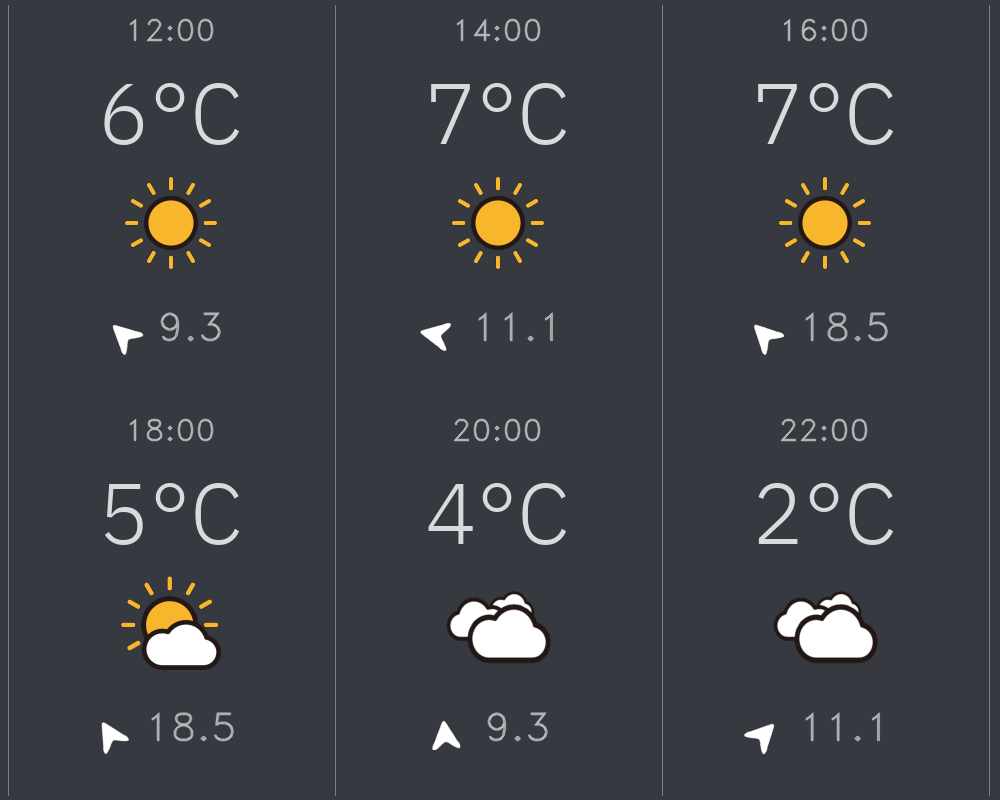
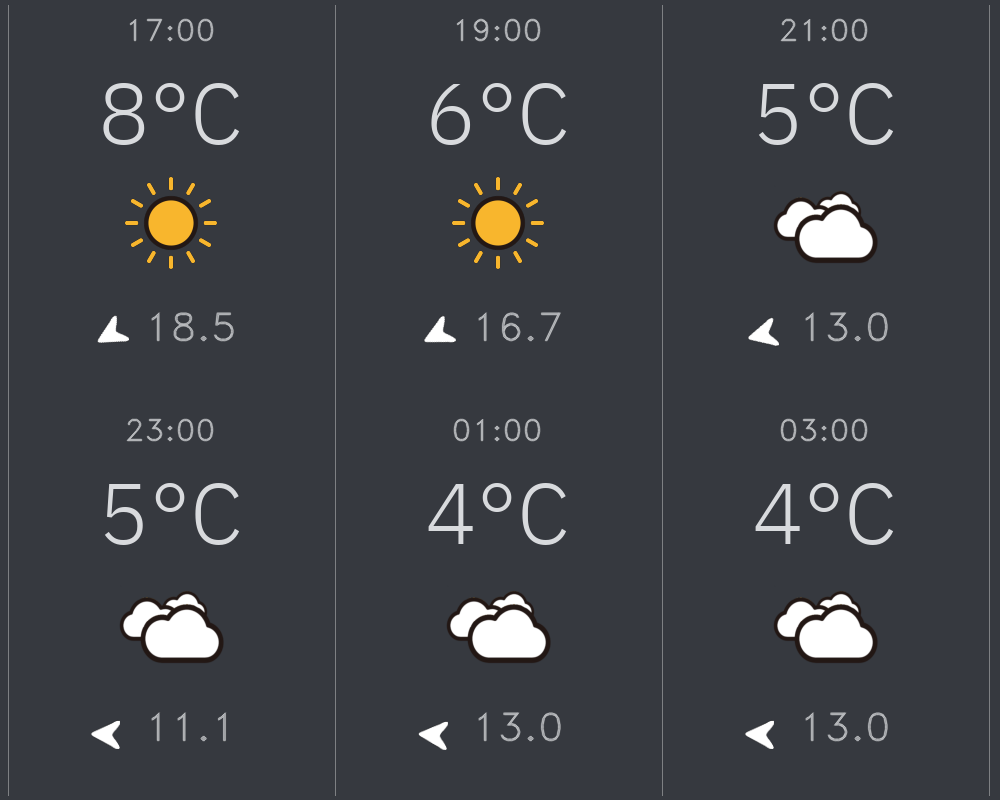
changed daily message

diff --git a/bot.py b/bot.py
@@ -197,6 +197,23 @@ async def terminy(ctx, *args):
         await ctx.send(bc.get_deadlines_message())
 
 
+# sends stats to the channels defined i the file data/config.json
+# to add a channel to the config run 'channel set' command on the channel
+async def broadcast_stats():
+    list = bc.get_channels()
+    for el in list:
+        channel_id = el["ChannelId"]
+        channel = client.get_channel(channel_id)
+
+        generate_forecast_image()
+        await channel.send(bc.get_daily_stats_message())
+
+
+        with open("assets/generated_images/image.png", 'rb') as f:
+            picture = discord.File(f)
+            await channel.send(file=picture)
+
+
 # sends the same message to the channels defined i the file data/config.json
 # to add a channel to the config run 'channel set' command on the channel
 async def broadcast_message(message, image=None):
@@ -227,4 +244,4 @@ async def send_stats():
     if 4 <= hour < 5:
         if 15 <= minute < 45:
             print(f"{hour}:{minute} -> wysyłam pobrane statystyki")
-            await broadcast_message(bc.get_daily_stats_message())
+            await broadcast_stats()
